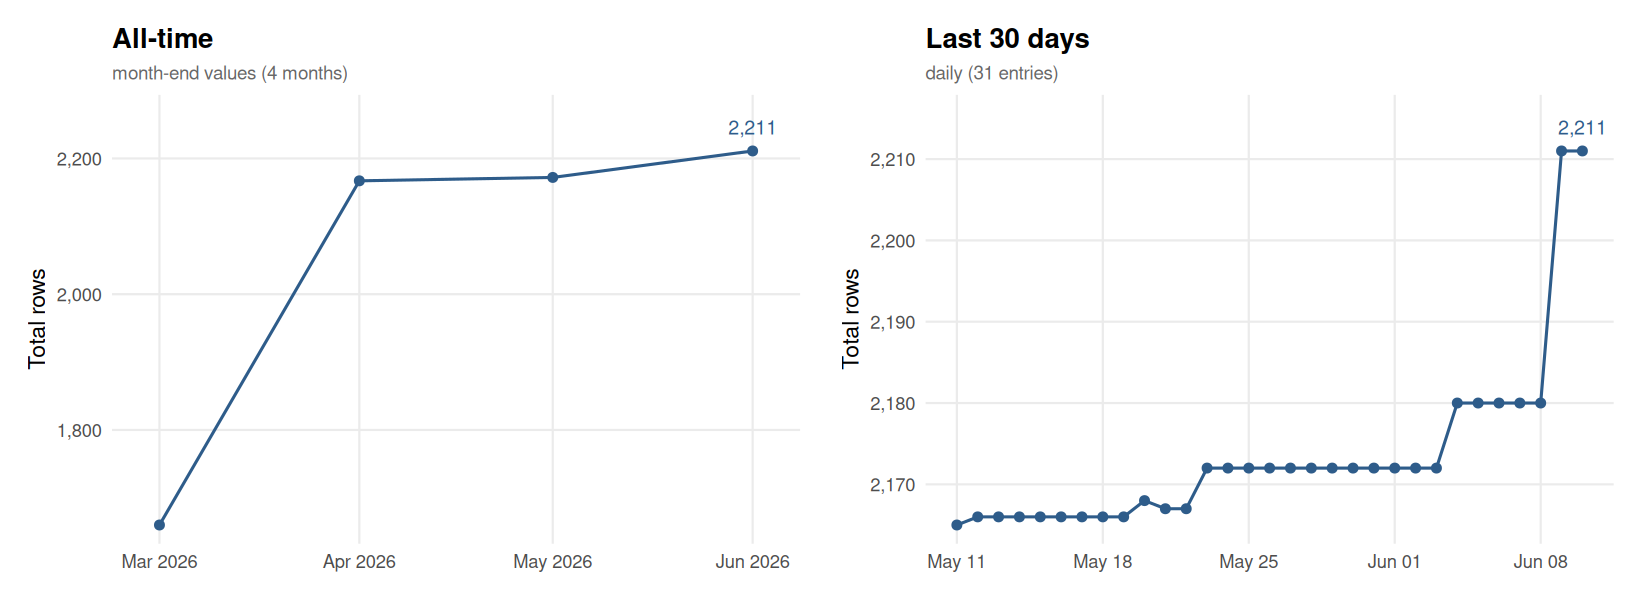
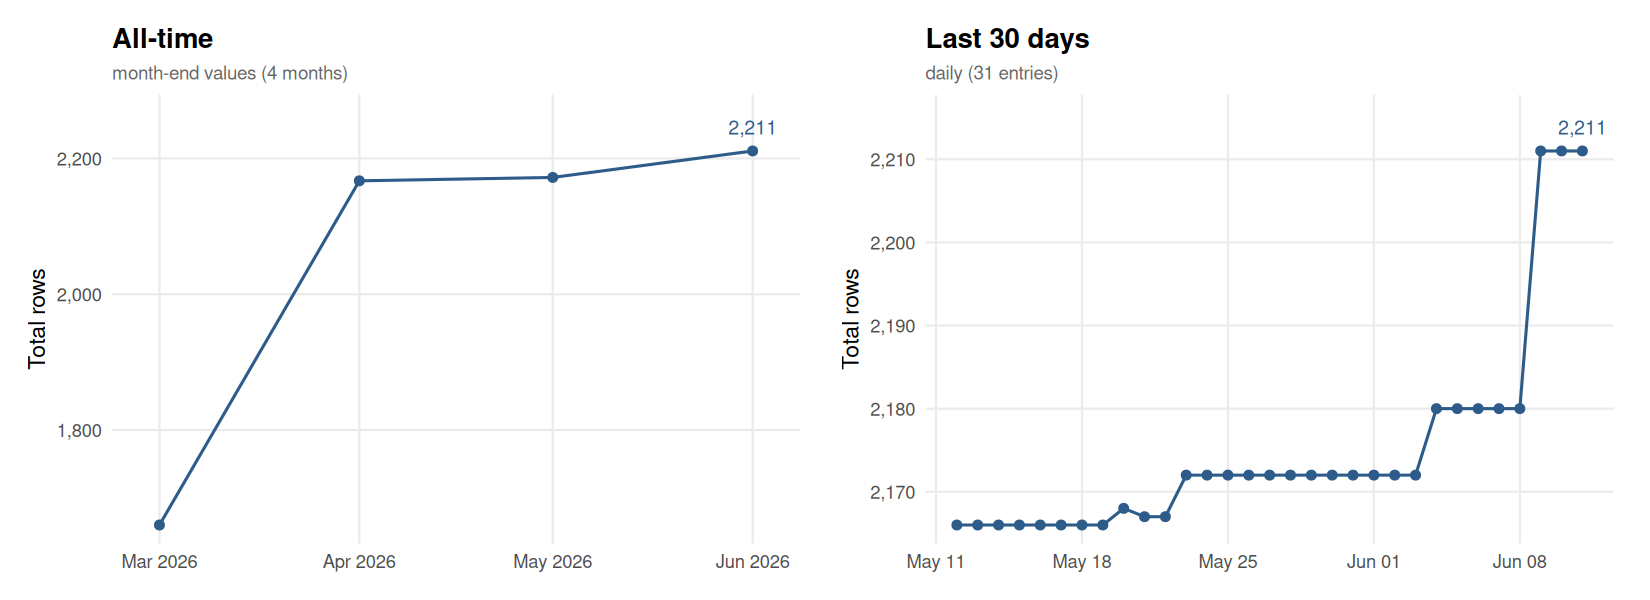
Update flora.csv [automated]

diff --git a/README.md b/README.md
@@ -438,14 +438,15 @@ For API issues:
 This chart is automatically updated after each pipeline run, showing the size of `output/flora.csv` over time.
 
 <!-- FLORA_UPDATE_LOG_START -->
-> **Latest (2026-06-10):** Total = 2,211 | Replications = 2,202 | Reproductions = 9
+> **Latest (2026-06-11):** Total = 2,211 | Replications = 2,202 | Reproductions = 9
 
 ![FLoRA dataset size over time](output/flora_history.png)
 
-<details><summary>Full history (83 entries)</summary>
+<details><summary>Full history (84 entries)</summary>
 
 | Date | Total | Replications | Reproductions |
 |------|------:|-------------:|--------------:|
+| 2026-06-11 | 2211 | 2202 | 9 |
 | 2026-06-10 | 2211 | 2202 | 9 |
 | 2026-06-09 | 2211 | 2202 | 9 |
 | 2026-06-08 | 2180 | 2171 | 9 |
